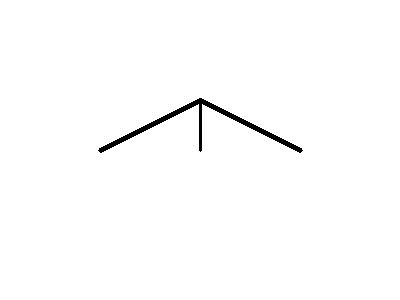
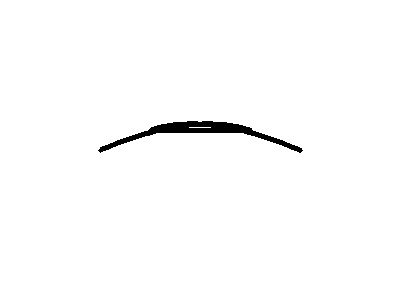
아치형, 둥근형, 각진형 눈썹 모양 개선

Changed region(s): [[0.27, 0.33, 0.72, 0.51]]

diff --git a/generate_eyebrow_images.py b/generate_eyebrow_images.py
@@ -32,9 +32,9 @@ cv2.imwrite('images/eyebrow_types/straight.jpg', img)
 img = np.ones((300, 400, 3), dtype=np.uint8) * 255
 points = np.array([
     [100, 150],  # 시작점
-    [150, 140],  # 컨트롤 포인트 1
-    [200, 120],  # 정점
-    [250, 140],  # 컨트롤 포인트 2
+    [150, 130],  # 컨트롤 포인트 1 (더 높게)
+    [200, 110],  # 정점 (더 높게)
+    [250, 130],  # 컨트롤 포인트 2 (더 높게)
     [300, 150]   # 끝점
 ], dtype=np.int32)
 img = draw_smooth_curve(img, points)
@@ -44,19 +44,24 @@ cv2.imwrite('images/eyebrow_types/arched.jpg', img)
 img = np.ones((300, 400, 3), dtype=np.uint8) * 255
 points = np.array([
     [100, 150],  # 시작점
-    [150, 145],  # 컨트롤 포인트 1 (더 완만한 곡선을 위해 높이 조정)
-    [200, 140],  # 정점 (더 낮은 높이로 조정)
-    [250, 145],  # 컨트롤 포인트 2
+    [150, 135],  # 컨트롤 포인트 1
+    [200, 125],  # 정점 (더 높게)
+    [250, 135],  # 컨트롤 포인트 2
     [300, 150]   # 끝점
 ], dtype=np.int32)
 img = draw_smooth_curve(img, points)
 cv2.imwrite('images/eyebrow_types/rounded.jpg', img)
 
-# 각진형 눈썹
+# 각진형 눈썹 (부드러운 곡선으로 변경)
 img = np.ones((300, 400, 3), dtype=np.uint8) * 255
-pts = np.array([[100, 150], [200, 100], [300, 150]], np.int32)
-cv2.polylines(img, [pts], False, (0, 0, 0), 3)
-cv2.line(img, (200, 100), (200, 150), (0, 0, 0), 2)
+points = np.array([
+    [100, 150],  # 시작점
+    [150, 130],  # 컨트롤 포인트 1
+    [200, 115],  # 정점
+    [250, 130],  # 컨트롤 포인트 2
+    [300, 150]   # 끝점
+], dtype=np.int32)
+img = draw_smooth_curve(img, points)
 cv2.imwrite('images/eyebrow_types/angular.jpg', img)
 
 # 기본형 눈썹
